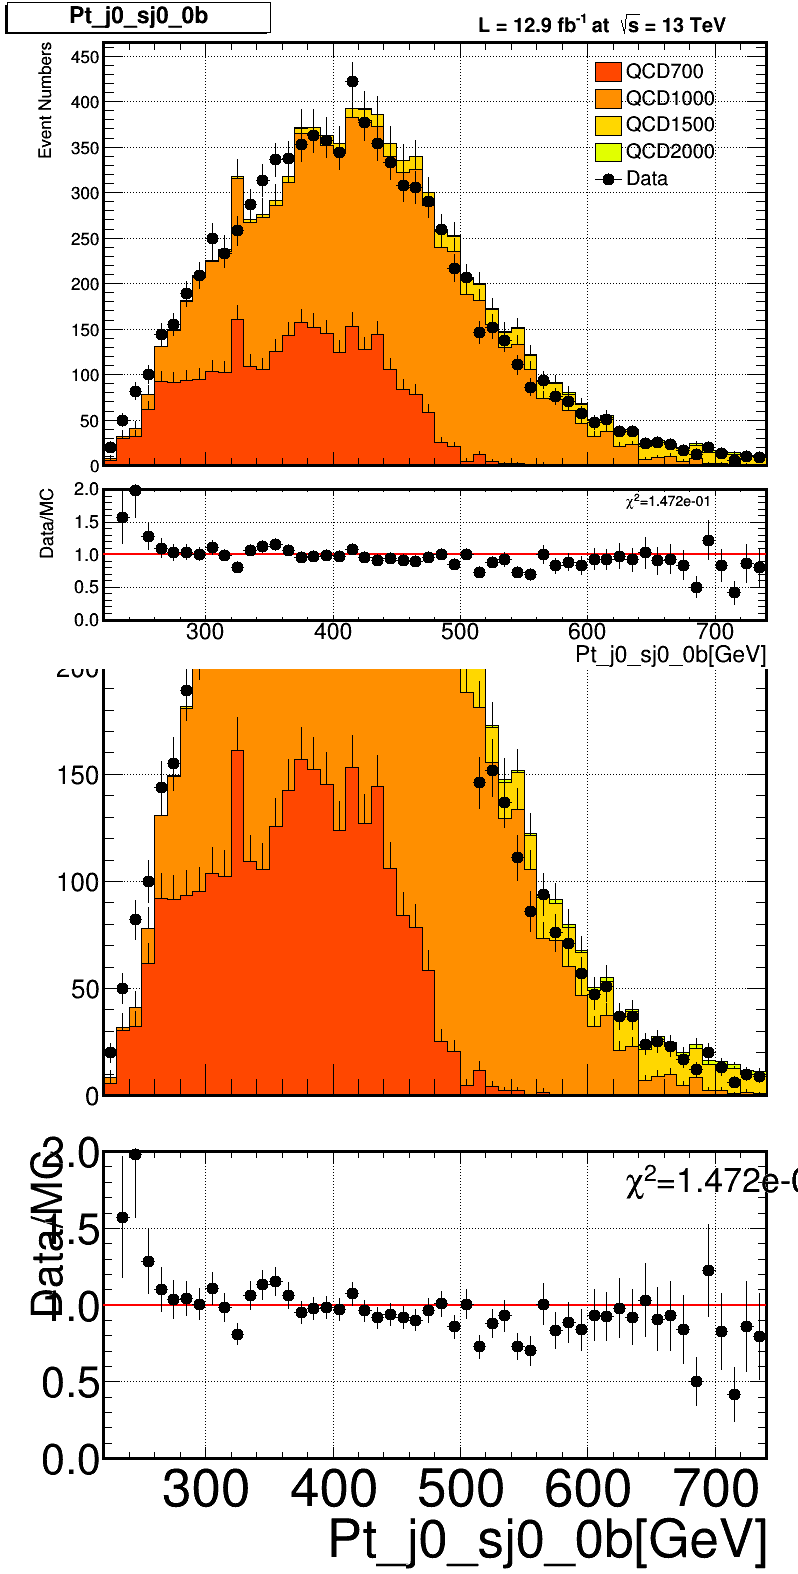
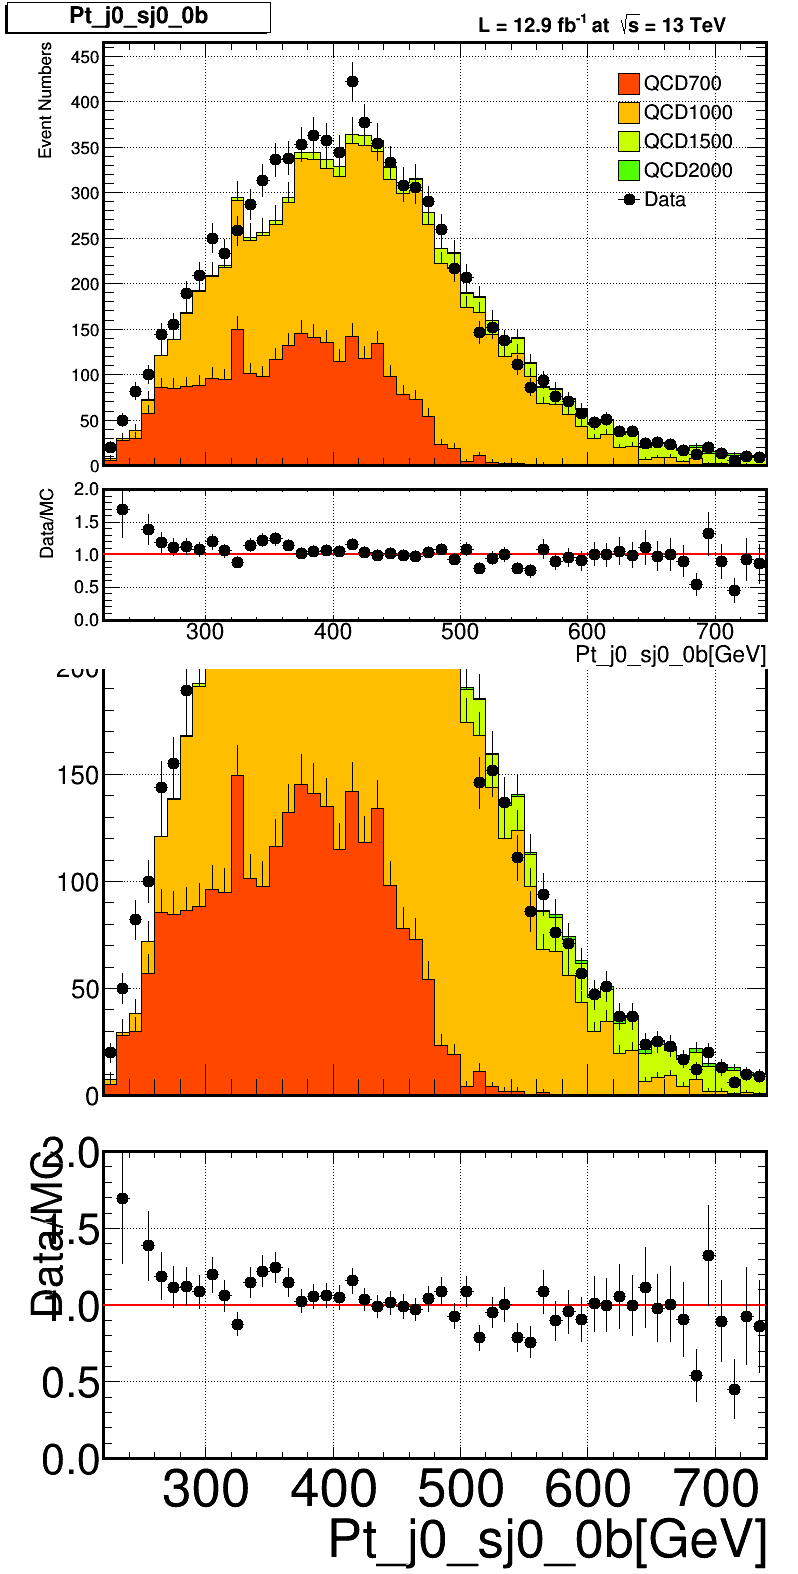
gadflv

diff --git a/80x_v3/dataMCplots.C b/80x_v3/dataMCplots.C
@@ -21,7 +21,7 @@ int isSetRange=0;
 
 void myPlot(vector< TH1D*> h_Z,
            vector< TH1D*> v_data,
-	    TH1D* h_data, TH1D* h_bkg){
+	    TH1D* h_data, TH1D* h_bkg,int option=0){
 
   h_data->Reset();
   for(unsigned int i=0;i<v_data.size();i++)h_data->Add(v_data[i]);
@@ -36,16 +36,27 @@ void myPlot(vector< TH1D*> h_Z,
    h_bkg->Reset();
     THStack *h_stack = new THStack("h_stack", "");
   for(unsigned int i=0;i<h_Z.size();i++){
-	  h_Z[i]->SetFillColor(97-3*i);
+	  h_Z[i]->SetFillColor(97-5*i);
 	  h_Z[i]->SetLineColor(kBlack);
 	  h_bkg->Add(h_Z[i]);
 	   h_stack->Add(h_Z[i]);
 	  
   }
-   leg->AddEntry(h_Z[0], "QCD700", "f");
+   
+   
+   if(option==1){
+	   leg->Clear();
+	   leg->AddEntry(h_Z[3], "udscg", "f");
+	leg->AddEntry(h_Z[2], "cc", "f");
+	leg->AddEntry(h_Z[1], "b", "f");
+	leg->AddEntry(h_Z[0], "bb", "f");
+	}
+	else{
+		leg->AddEntry(h_Z[0], "QCD700", "f");
    leg->AddEntry(h_Z[1], "QCD1000", "f");
    leg->AddEntry(h_Z[2], "QCD1500", "f");
    leg->AddEntry(h_Z[3], "QCD2000", "f");
+	}
   /*
 leg->AddEntry(h_Zjets, "Z+Jets", "f");
   leg->AddEntry(h_TT, "t#bar{t}", "f");
@@ -115,7 +126,7 @@ leg->AddEntry(h_Zjets, "Z+Jets", "f");
   lar->SetTextSize(0.04);
   lar->SetLineWidth(5);
   //lar->DrawLatex(0.14, 0.94, "CMS #it{#bf{2015}}");
-  lar->DrawLatex(0.60, 0.94, "L = 12.884 fb^{-1} at #sqrt{s} = 13 TeV");
+  lar->DrawLatex(0.60, 0.94, "L = 12.9 fb^{-1} at #sqrt{s} = 13 TeV");
 
 }
 
@@ -287,8 +298,8 @@ void dataMCplots(){
  h_name.push_back("h_nvtx_cut");  
 h_name.push_back("Nbtagjet");  
 
-  for(unsigned int i = 0; i < h_name.size(); i++){
-	 
+  //for(unsigned int i = 0; i < h_name.size(); i++){
+	 for(unsigned int i = 0; i < 1; i++){
 	  
 	//cout<<h_name[i]<<endl;
 	TH1D *th1[10];
@@ -407,5 +418,62 @@ vd,
 	 }
   }
   
+  TH1D* thh[5][4];
+  double fixNumber=20991/31075.1;//7306/11857.3;
+double Xsec[4]={6831,1207,119.9,25.24};
+  string categories[4]={"0b","1b","2b","DSV"};
+  string hadflv[4]={"bb","b","cc","udscg"};
+  
+  double fixNumber2[4]={0.97555,0.822533,0.956286,1.48902};
+  
+  
+  for(int k=0;k<4;k++){
+  
+  //cout<<"test"<<endl;
+  
+  for(int i=0;i<4;i++){
+	  for(int j=0;j<4;j++){
+		  TH1D *th2=(TH1D* )tf1[i]->FindObjectAny("cutflow");
+		
+	
+		  thh[i][j]=(TH1D*)tf1[i]->FindObjectAny(Form("Pt_j0_%s_%s",categories[k].data(),hadflv[j].data()));
+		  thh[i][j]->Scale(fixNumber*(1/fixNumber2[k])* 12883.846147301*Xsec[i]/th2->GetBinContent(1));
+	  }
+	  
+	  if(i==3){
+		  for(int j=0;j<4;j++)thh[i][j]->Add(thh[0][j]);
+		  for(int j=0;j<4;j++)thh[i][j]->Add(thh[1][j]);
+		  for(int j=0;j<4;j++)thh[i][j]->Add(thh[2][j]);
+	  }
+  }
+  isSetRange=1;
+  //cout<<"test2"<<endl;
+  
+    TH1D *h_bkg  = (TH1D* )thh[0][0]->Clone("h_bkg");
+	
+    TH1D *h_data = (TH1D* )thh[0][0]->Clone("h_data");
+    
+    vector<TH1D* > v2;
+	vector<TH1D* > vd;
+	thh[4][0]=(TH1D*)tf1[4]->FindObjectAny(Form("Pt_j0_%s_udscg",categories[k].data()));
+	
+	v2.push_back(thh[3][0]);
+	v2.push_back(thh[3][1]);
+	v2.push_back(thh[3][2]);
+	v2.push_back(thh[3][3]);
+	
+	vd.push_back(thh[4][0]);
+   c_up->cd();
+  myPlot(v2,
+vd,
+	   h_data, h_bkg,1);
 
+    c_up->RedrawAxis();
+    c_dw->cd();
+  
+   c_up->RedrawAxis();
+    c_dw->cd();
+myRatio(h_data, h_bkg,"Pt_j0[GeV]");
+c.SaveAs(Form("dataMC/Pt_j0_%s.png",categories[k].data()));
+  }
 }
